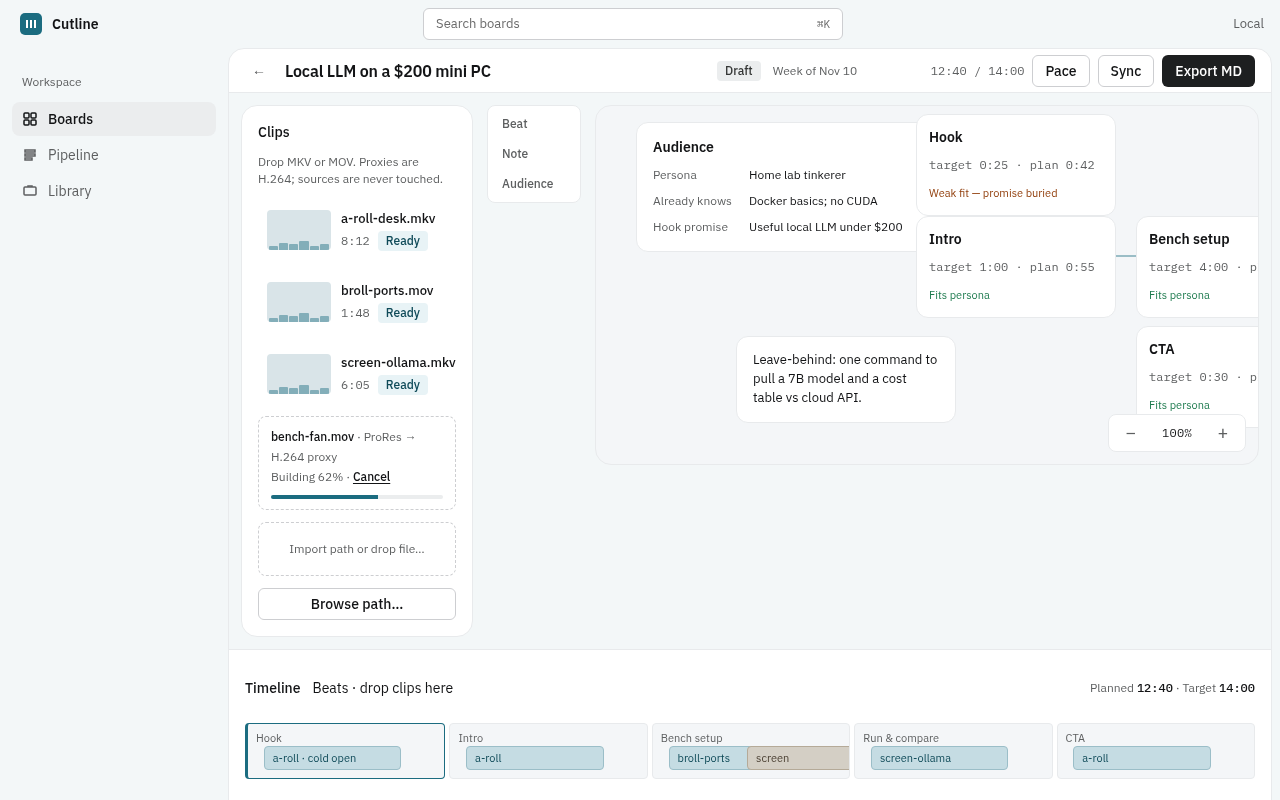
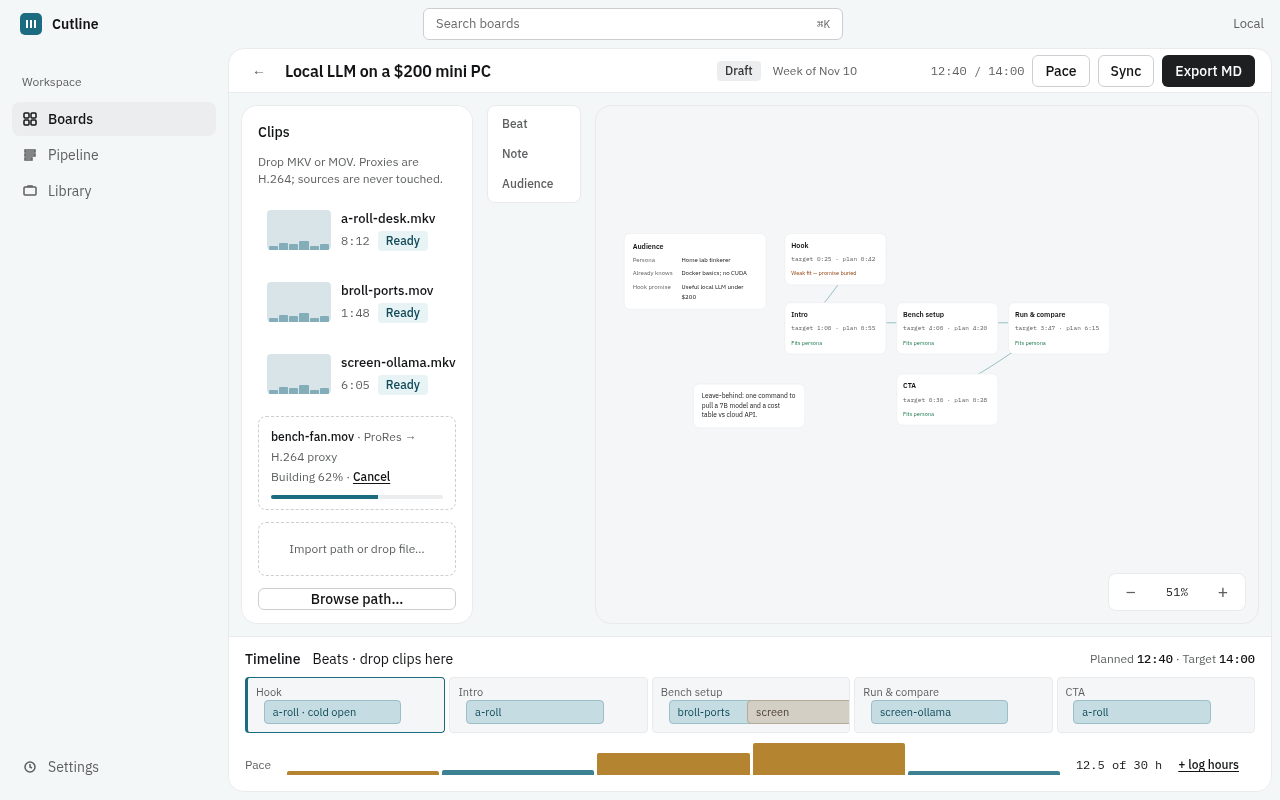
Fit board to view, stretch canvas, unclip timeline pace, polish Pace chart
On board open fit-to-view so all cards stay visible with no overlap; keep
zoom fixed bottom-right clear of cards. Stretch workspace to the timeline,
stop clipping mini-curve bars, keep pace x-labels inside the chart card with
a gap before Hours, and use amber for slow stretches (red only for errors).
Retake canvas/pace screenshots and sync docs/screenshots.

diff --git a/public/js/app.js b/public/js/app.js
@@ -26,6 +26,72 @@ const MARK_SVG = `<svg width="14" height="14" viewBox="0 0 14 14"><path d="M2 3h
 function $(sel, el = document) { return el.querySelector(sel); }
 function $$(sel, el = document) { return [...el.querySelectorAll(sel)]; }
 
+function cardSize(c) {
+  const w = Number(c.w) || (c.type === 'beat' ? 200 : c.type === 'note' ? 220 : c.type === 'audience' ? 280 : 240);
+  const h = Number(c.h) || (c.type === 'audience' ? 150 : c.type === 'note' ? 110 : 108);
+  return { w, h };
+}
+
+function rectsOverlap(a, b, gap = 16) {
+  return !(a.x + a.w + gap <= b.x || b.x + b.w + gap <= a.x || a.y + a.h + gap <= b.y || b.y + b.h + gap <= a.y);
+}
+
+function findFreeCardSpot(w, h, existing) {
+  const rects = existing.map((c) => {
+    const s = cardSize(c);
+    return { x: c.x, y: c.y, w: s.w, h: s.h };
+  });
+  let x = 24; let y = 24;
+  for (let i = 0; i < 100; i++) {
+    const cand = { x, y, w, h };
+    if (!rects.some((r) => rectsOverlap(cand, r))) return { x, y };
+    x += 48;
+    if (x > 820) { x = 24; y += 56; }
+  }
+  return { x: 24 + Math.random() * 40, y: 24 + Math.random() * 40 };
+}
+
+function shortBeatLabel(label) {
+  const s = String(label || '').trim();
+  if (!s) return '·';
+  if (s.length <= 12) return s;
+  if (/^run/i.test(s)) return 'Run & cmp';
+  if (/^bench/i.test(s)) return 'Bench setup';
+  return s.slice(0, 11) + '…';
+}
+
+function fitBoardToView() {
+  const panel = $('#canvas-panel');
+  const world = $('#canvas-world');
+  if (!panel || !world || !state.board?.cards?.length) return;
+  const cards = state.board.cards;
+  let minX = Infinity; let minY = Infinity; let maxX = -Infinity; let maxY = -Infinity;
+  for (const c of cards) {
+    const { w, h } = cardSize(c);
+    minX = Math.min(minX, c.x);
+    minY = Math.min(minY, c.y);
+    maxX = Math.max(maxX, c.x + w);
+    maxY = Math.max(maxY, c.y + h);
+  }
+  const pad = 28;
+  const zoomReserveX = 120; // keep clear of zoom control
+  const zoomReserveY = 56;
+  const vw = Math.max(120, panel.clientWidth - pad * 2 - zoomReserveX);
+  const vh = Math.max(120, panel.clientHeight - pad * 2 - zoomReserveY);
+  const bw = Math.max(1, maxX - minX);
+  const bh = Math.max(1, maxY - minY);
+  const zoom = Math.min(1, Math.max(0.45, Math.min(vw / bw, vh / bh)));
+  state.zoom = zoom;
+  const contentW = bw * zoom;
+  const contentH = bh * zoom;
+  // Prefer top-left padding; leave bottom-right for zoom chrome
+  state.pan.x = pad - minX * zoom + Math.max(0, (vw - contentW) / 2);
+  state.pan.y = pad - minY * zoom + Math.max(0, (vh - contentH) / 2);
+  world.style.transform = `translate(${state.pan.x}px,${state.pan.y}px) scale(${state.zoom})`;
+  const pct = document.querySelector('.canvas-tools .zoom-pct');
+  if (pct) pct.textContent = `${Math.round(state.zoom * 100)}%`;
+}
+
 function formatWeek(w) {
   if (!w) return '';
   const s = String(w).trim();
@@ -344,6 +410,10 @@ function renderBoard() {
     </div>`;
   bindBoard();
   drawWires();
+  requestAnimationFrame(() => {
+    fitBoardToView();
+    drawWires();
+  });
 }
 
 function renderPalette() {
@@ -530,7 +600,10 @@ function bindBoard() {
 
 function addCard(type) {
   const id = 'card_' + Math.random().toString(36).slice(2, 10);
-  const base = { id, type, title: type === 'beat' ? 'Beat' : type === 'audience' ? 'Audience' : '', body: '', x: 120 + Math.random() * 80, y: 80 + Math.random() * 80, w: type === 'beat' ? 200 : 240, h: 140, z: 1, data: {} };
+  const w = type === 'beat' ? 200 : type === 'audience' ? 280 : 220;
+  const h = type === 'audience' ? 150 : type === 'note' ? 110 : 108;
+  const spot = findFreeCardSpot(w, h, state.board.cards || []);
+  const base = { id, type, title: type === 'beat' ? 'Beat' : type === 'audience' ? 'Audience' : '', body: '', x: spot.x, y: spot.y, w, h, z: 1, data: {} };
   if (type === 'beat') {
     const beatId = 'beat_' + Math.random().toString(36).slice(2, 10);
     const ord = state.board.beats.length;
@@ -573,21 +646,28 @@ function renderPace() {
   const hoursOn = hoursTotal > 0 || hours?.activityWatch?.ok;
 
   const maxCum = Math.max(pacing.targetRuntimeSec || 1, pacing.totalPlannedSec || 1, 1);
-  const chartW = 640; const chartH = 180; const padL = 40; const padR = 28; const padT = 28; const padB = 24;
+  const chartW = 640; const chartH = 200; const padL = 40; const padR = 28; const padT = 28; const padB = 36;
+  const plotW = chartW - padL - padR;
   const plotH = chartH - padT - padB;
   const n = Math.max(parts.length, 1);
   const pts = [];
   let cum = 0;
   parts.forEach((p, i) => {
     cum += p.plannedSec || 0;
-    const x = padL + ((i + 1) / n) * (chartW - padL - padR);
+    // Point at END of this beat's segment
+    const x = padL + ((i + 1) / n) * plotW;
+    const xMid = padL + ((i + 0.5) / n) * plotW;
     const y = padT + plotH - (cum / maxCum) * plotH;
-    pts.push({ x, y, cum, overBy: p.overBy, label: p.label, slow: p.slow });
+    pts.push({ x, xMid, y, cum, overBy: p.overBy, label: p.label, slow: p.slow, i });
   });
-  if (!pts.length) pts.push({ x: padL, y: padT + plotH, cum: 0 });
+  if (!pts.length) pts.push({ x: padL, xMid: padL, y: padT + plotH, cum: 0 });
   const poly = [`${padL},${padT + plotH}`, ...pts.map((p) => `${p.x},${p.y}`)].join(' ');
   const area = `M${padL},${padT + plotH} ` + pts.map((p) => `L${p.x},${p.y}`).join(' ') + ` L${pts[pts.length - 1].x},${padT + plotH} Z`;
   const targetY = padT + plotH - ((pacing.targetRuntimeSec || 0) / maxCum) * plotH;
+  const axisLabels = parts.map((p, i) => {
+    const xMid = padL + ((i + 0.5) / n) * plotW;
+    return { xMid, text: shortBeatLabel(p.label) };
+  });
 
   const el = sheet();
   el.className = 'sheet';
@@ -606,7 +686,7 @@ function renderPace() {
       <div class="kpis">
         <div class="kpi"><label>Planned</label><div class="val mono">${fmt(pacing.totalPlannedSec)}<span class="u">m</span></div><div class="delta">vs ${fmt(b.board.targetRuntimeSec)} target</div></div>
         <div class="kpi"><label>Headroom</label><div class="val mono">${fmt(Math.abs(headroom))}<span class="u">m</span></div><div class="delta ${headroom >= 0 ? 'ok' : 'bad'}">${headroom >= 0 ? 'under target' : 'over target'}</div></div>
-        <div class="kpi"><label>Slow stretches</label><div class="val mono">${slow.length}</div><div class="delta ${slow.length ? 'bad' : 'ok'}">${slow.length ? escapeHtml(slow.map((s) => s.label).join(' + ')) : 'none'}</div></div>
+        <div class="kpi"><label>Slow stretches</label><div class="val mono">${slow.length}</div><div class="delta ${slow.length ? 'slow' : 'ok'}">${slow.length ? escapeHtml(slow.map((s) => s.label).join(' + ')) : 'none'}</div></div>
         <div class="kpi"><label>Hours logged</label><div class="val mono">${hoursOn ? hoursTotal.toFixed(1) : '—'}${hoursOn ? `<span class="u">/ ${cap}</span>` : ''}</div><div class="delta">${hours?.activityWatch?.ok ? 'Resolve + OBS' : 'off · + log hours'}</div></div>
       </div>
       <div class="grid2">
@@ -619,29 +699,34 @@ function renderPace() {
               <span><i class="dot" style="background:var(--text);width:12px;height:1px;border-radius:0;vertical-align:middle;display:inline-block"></i>Target ${fmt(b.board.targetRuntimeSec)}</span>
               <span><i class="dot" style="background:var(--chart-3)"></i>Over part target</span>
             </div>
-            <svg viewBox="0 0 ${chartW} ${chartH}" preserveAspectRatio="xMidYMid meet" style="width:100%;height:180px;display:block">
+            <svg viewBox="0 0 ${chartW} ${chartH}" preserveAspectRatio="xMidYMid meet" style="width:100%;height:200px;display:block">
               <line x1="${padL}" y1="${padT}" x2="${chartW - padR}" y2="${padT}" stroke="var(--grid)"/>
               <line x1="${padL}" y1="${padT + plotH / 3}" x2="${chartW - padR}" y2="${padT + plotH / 3}" stroke="var(--grid)"/>
               <line x1="${padL}" y1="${padT + 2 * plotH / 3}" x2="${chartW - padR}" y2="${padT + 2 * plotH / 3}" stroke="var(--grid)"/>
               <line x1="${padL}" y1="${padT + plotH}" x2="${chartW - padR}" y2="${padT + plotH}" stroke="var(--grid)"/>
+              ${axisLabels.map((_, i) => {
+                const x = padL + ((i + 1) / n) * plotW;
+                return i < n - 1 ? `<line x1="${x}" y1="${padT}" x2="${x}" y2="${padT + plotH}" stroke="var(--grid)" stroke-dasharray="2 4" opacity="0.7"/>` : '';
+              }).join('')}
               <line x1="${padL}" y1="${targetY}" x2="${chartW - padR}" y2="${targetY}" stroke="var(--text)" stroke-dasharray="4 4"/>
               <path d="${area}" fill="var(--chart-1)" opacity="0.08"/>
               <polyline points="${poly}" fill="none" stroke="var(--chart-1)" stroke-width="2"/>
               ${pts.filter((p) => p.slow).map((p) => {
+                // Anchor annotation toward segment center so it reads with its beat
+                const labelX = Math.min(chartW - padR - 36, Math.max(padL, (p.xMid + p.x) / 2 - 12));
                 const above = p.y >= padT + 26;
-                const labelY = above ? p.y - 22 : p.y + 22;
-                const labelX = Math.min(chartW - padR - 40, Math.max(padL, p.x - 4));
+                const labelY = above ? p.y - 18 : p.y + 20;
                 return `
-                <circle cx="${p.x}" cy="${p.y}" r="4" fill="var(--chart-3)"/>
-                <rect x="${labelX - 4}" y="${labelY - 11}" width="40" height="14" rx="2" fill="#ffffff" stroke="var(--border)" stroke-width="0.75"/>
+                <circle cx="${p.x}" cy="${p.y}" r="4.5" fill="var(--chart-3)" stroke="#fff" stroke-width="1"/>
+                <rect x="${labelX - 3}" y="${labelY - 10}" width="40" height="13" rx="2" fill="#ffffff" stroke="var(--border)" stroke-width="0.75"/>
                 <text x="${labelX}" y="${labelY}" font-size="10" fill="var(--warning)" font-family="IBM Plex Mono, monospace">${fmtSigned(p.overBy)}</text>`;
               }).join('')}
+              ${axisLabels.map((a) => `
+                <text x="${a.xMid}" y="${chartH - 10}" text-anchor="middle" font-size="11" fill="var(--muted)" font-family="IBM Plex Sans, sans-serif">${escapeHtml(a.text)}</text>
+              `).join('')}
             </svg>
-            <div class="plan-labels" style="font-size:11px;color:var(--muted)">
-              ${parts.map((p) => `<span>${escapeHtml((p.label || '').split(' ')[0] || '·')}</span>`).join('')}
-            </div>
           </div>
-          <div style="border:1px solid var(--border);border-radius:8px;padding:16px;margin-top:16px">
+          <div class="hours-gap" style="border:1px solid var(--border);border-radius:8px;padding:16px;margin-top:24px">
             <h3 style="font-size:14px;font-weight:500;margin-bottom:4px">Hours against cap</h3>
             <p class="muted" style="font-size:12px;margin-bottom:12px">Read-only from ActivityWatch (Resolve, OBS) or hand-logged. Cap ${cap} h for this board.</p>
             ${hoursOn ? `

diff --git a/public/css/app.css b/public/css/app.css
@@ -131,7 +131,7 @@ textarea.input { height: auto; padding: 8px 10px; resize: vertical; }
 .hours-off-bar .actions { margin-left: auto; display: flex; gap: 16px; }
 
 /* Board workspace */
-.board-sheet { display: grid; grid-template-rows: 44px 1fr 210px; min-height: calc(100vh - 56px); }
+.board-sheet { display: grid; grid-template-rows: 44px minmax(0, 1fr) auto; min-height: calc(100vh - 56px); height: calc(100vh - 56px); }
 .board-bar {
   display: flex; align-items: center; gap: 12px; padding: 0 16px;
   border-bottom: 1px solid var(--border);
@@ -144,12 +144,12 @@ textarea.input { height: auto; padding: 8px 10px; resize: vertical; }
 .board-bar .actions { margin-left: auto; display: flex; align-items: center; gap: 8px; }
 .workspace {
   display: grid; grid-template-columns: 232px auto 1fr; gap: 14px;
-  padding: 12px; background: var(--ground); min-height: 0;
-  align-items: start;
+  padding: 12px; background: var(--ground); min-height: 0; height: 100%;
+  align-items: stretch;
 }
 .palette, .canvas-panel {
   background: var(--surface); border: 1px solid var(--border);
-  border-radius: 16px; min-height: 0;
+  border-radius: 16px; min-height: 0; height: 100%; align-self: stretch;
 }
 .palette { padding: 16px; display: flex; flex-direction: column; gap: 12px; overflow: auto; }
 .palette h2 { font-size: 14px; font-weight: 500; }
@@ -201,7 +201,8 @@ textarea.input { height: auto; padding: 8px 10px; resize: vertical; }
 .wires path { fill: none; stroke: var(--accent); stroke-width: 1.5; opacity: 0.55; }
 .canvas-tools {
   position: absolute; right: 12px; bottom: 12px; display: flex; align-items: center; gap: 6px;
-  background: var(--surface); border: 1px solid var(--border); border-radius: 8px; padding: 4px 8px; z-index: 3;
+  background: var(--surface); border: 1px solid var(--border); border-radius: 8px; padding: 4px 8px;
+  z-index: 5; pointer-events: auto;
 }
 .canvas-tools button {
   min-width: 28px; height: 28px; border: 0; background: transparent; border-radius: 4px;
@@ -227,8 +228,9 @@ textarea.input { height: auto; padding: 8px 10px; resize: vertical; }
 .tool-rail button.active { color: var(--accent); background: #e8f3f6; }
 
 .timeline {
-  border-top: 1px solid var(--border); padding: 12px 16px 10px;
-  display: grid; grid-template-rows: auto 56px auto; gap: 8px; background: var(--surface);
+  border-top: 1px solid var(--border); padding: 12px 16px 14px;
+  display: grid; grid-template-rows: auto 56px minmax(36px, auto); gap: 8px;
+  background: var(--surface); overflow: visible;
 }
 .tl-head { display: flex; align-items: center; gap: 12px; }
 .tl-head h2 { font-size: 14px; font-weight: 500; }
@@ -247,9 +249,9 @@ textarea.input { height: auto; padding: 8px 10px; resize: vertical; }
   font-size: 11px; color: #0f4a58; display: flex; align-items: center; padding: 0 8px;
   white-space: nowrap; overflow: hidden; left: 8%; width: 78%;
 }
-.tl-foot { display: flex; align-items: center; gap: 16px; font-size: 12px; color: var(--muted); }
-.mini-curve { flex: 1; height: 28px; display: flex; align-items: flex-end; gap: 3px; }
-.mini-curve b { flex: 1; background: var(--chart-1); border-radius: 2px 2px 0 0; opacity: 0.85; min-width: 8px; }
+.tl-foot { display: flex; align-items: flex-end; gap: 16px; font-size: 12px; color: var(--muted); overflow: visible; min-height: 36px; padding-bottom: 2px; }
+.mini-curve { flex: 1; height: 32px; display: flex; align-items: flex-end; gap: 3px; overflow: visible; }
+.mini-curve b { flex: 1; background: var(--chart-1); border-radius: 2px 2px 0 0; opacity: 0.85; min-width: 8px; max-height: 100%; }
 .mini-curve b.slow { background: var(--chart-3); }
 .hours-meter { font-family: var(--mono); font-size: 12px; color: var(--text); white-space: nowrap; }
 .hours-meter.off { color: var(--faint); }
@@ -267,11 +269,15 @@ textarea.input { height: auto; padding: 8px 10px; resize: vertical; }
 .kpi .delta { font-size: 12px; margin-top: 4px; color: var(--muted); }
 .kpi .delta.ok { color: var(--positive); }
 .kpi .delta.bad { color: var(--negative); }
+.kpi .delta.slow { color: var(--warning); }
 .grid2 { display: grid; grid-template-columns: 1.4fr 1fr; gap: 24px; }
 .chart-box {
-  height: 240px; border: 1px solid var(--border); border-radius: 8px; padding: 16px;
-  display: grid; grid-template-rows: auto 1fr auto; gap: 8px;
+  min-height: 260px; border: 1px solid var(--border); border-radius: 8px; padding: 16px 16px 12px;
+  display: grid; grid-template-rows: auto 1fr; gap: 8px; overflow: hidden;
 }
+.chart-box .hours-gap { margin-top: 24px; }
+.axis-labels { display: grid; width: 100%; margin: 0; padding: 0 28px 0 40px; box-sizing: border-box;
+  font-size: 11px; color: var(--muted); text-align: center; gap: 0; }
 .chart-legend { display: flex; gap: 16px; font-size: 12px; color: var(--muted); align-items: center; flex-wrap: wrap; }
 .dot { width: 8px; height: 8px; border-radius: 50%; display: inline-block; margin-right: 6px; }
 .plan-track { height: 8px; background: var(--raised); border-radius: 999px; overflow: hidden; }
